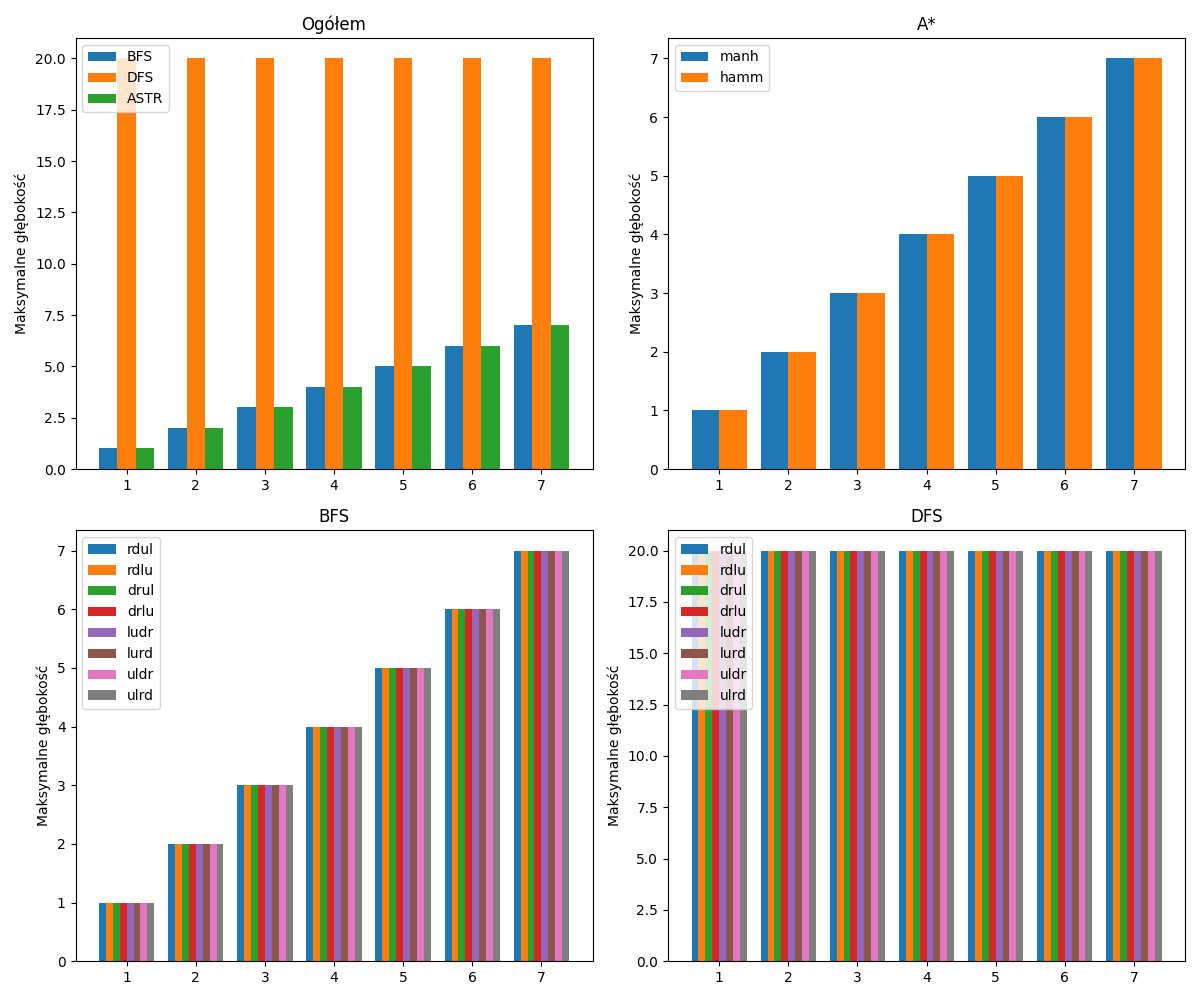
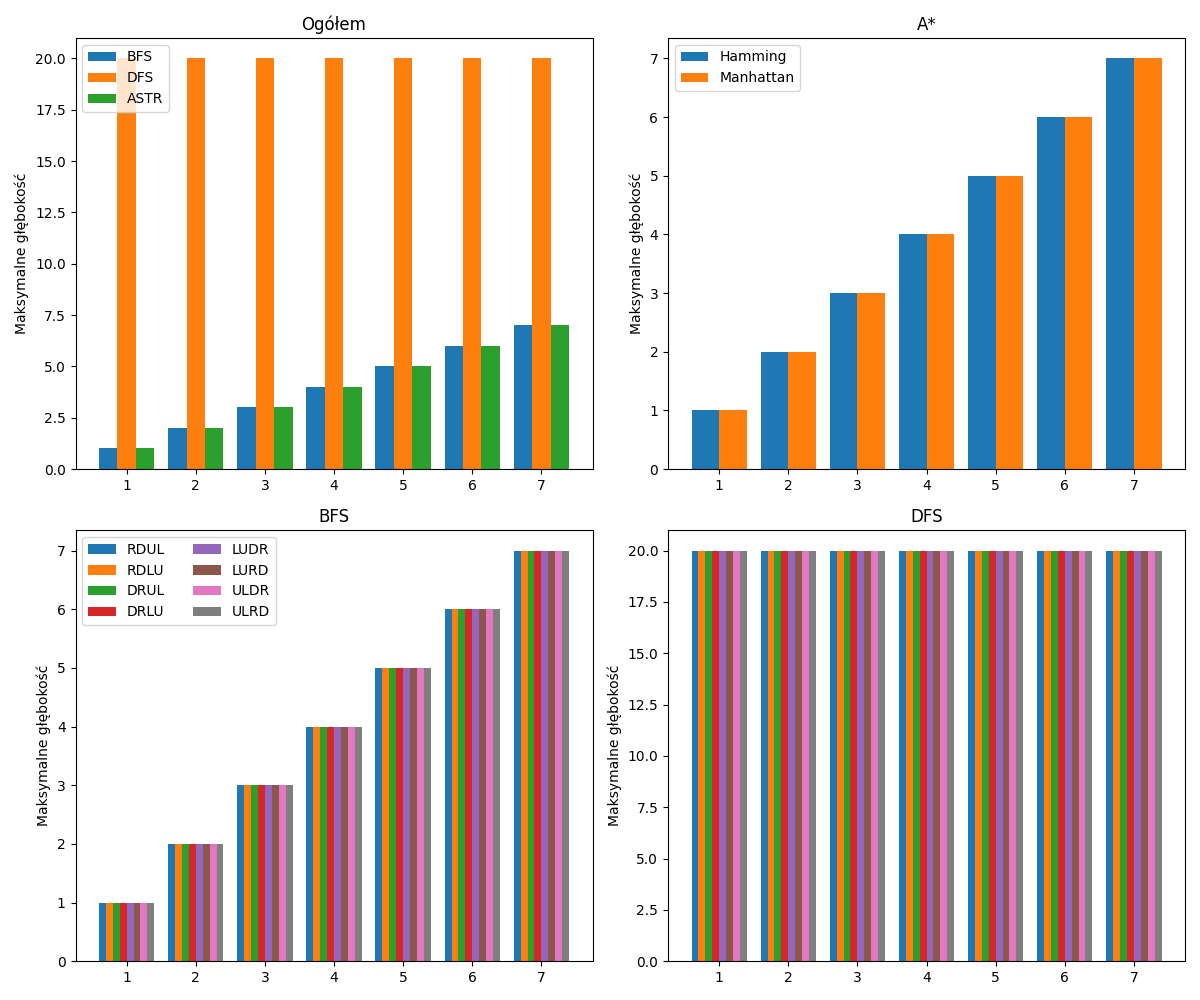
better graphs

Changed region(s): [[0.0617, 0.527, 0.2467, 0.713], [0.555, 0.527, 0.6475, 0.713], [0.5858, 0.031, 0.6783, 0.093]]

diff --git a/Fifteen Puzzle/solve.py b/Fifteen Puzzle/solve.py
@@ -59,7 +59,7 @@ def split_astr(table):
         elif strategy == "hamm":
             hamm.append(temp)
 
-    return [manh, hamm]
+    return [hamm, manh]
 
 
 def general_trim(table):
@@ -116,7 +116,7 @@ def transpose(table):
     return tranposed
 
 
-def bar_plot(ax, data, key, feature, title, ylabel, total_width=0.8, single_width=1, log_scale=False):
+def bar_plot(ax, data, key, feature, title, ylabel, total_width=0.8, single_width=1, legend=True, log_scale=False):
     colors = plt.rcParams['axes.prop_cycle'].by_key()['color']
     n_bars = len(data)
     bar_width = total_width / n_bars
@@ -124,7 +124,11 @@ def bar_plot(ax, data, key, feature, title, ylabel, total_width=0.8, single_widt
     for i in range(n_bars):
         x_offset = (i - n_bars / 2) * bar_width + bar_width / 2
         ax.bar(x + x_offset, np.array(data[i][feature]), width=bar_width * single_width, color=colors[i % len(colors)])
-    ax.legend(key, loc='upper left')
+    if legend:
+        if len(key) > 4:
+            ax.legend(key, loc='upper left', ncol=2)
+        else:
+            ax.legend(key, loc='upper left')
     ax.set_title(title)
     ax.set_ylabel(ylabel)
     if log_scale:
@@ -181,15 +185,16 @@ astr_t = transpose(astr_strategy_avg)
 
 general_avg = transpose([bfs_general_avg, dfs_general_avg, astr_general_avg])
 
-keys = ['rdul', 'rdlu', 'drul', 'drlu', 'ludr', 'lurd', 'uldr', 'ulrd']
+keys = ['RDUL', 'RDLU', 'DRUL', 'DRLU', 'LUDR', 'LURD', 'ULDR', 'ULRD']
+metric = ['Hamming', 'Manhattan']
 LABELS = ['Długość rozwiązania', 'Stany odwiedzone', 'Stany przetworzone', 'Maksymalne głębokość', 'Czas [ms]']
 params = [LENGTH, VISITED_STATES, PROCESSED_STATES, MAX_DEPTH, TIME]
 
 axes = plt.subplots(nrows=2, ncols=2, figsize=(12, 10))[1]
-bar_plot(axes[0][0], general_avg, ['BFS', 'DFS', 'ASTR'], LENGTH, "Ogółem", LABELS[0], total_width=.8, log_scale=True)
-bar_plot(axes[0][1], astr_t, ['manh', 'hamm'], LENGTH, "A*", LABELS[0], total_width=.8)
+bar_plot(axes[0][0], general_avg, ['BFS', 'DFS', 'ASTR'], LENGTH, "Ogółem", LABELS[0], total_width=.8)
+bar_plot(axes[0][1], astr_t, metric, LENGTH, "A*", LABELS[0], total_width=.8)
 bar_plot(axes[1][0], bfs_t, keys, LENGTH, "BFS", LABELS[0], total_width=.8)
-bar_plot(axes[1][1], dfs_t, keys, LENGTH, "DFS", LABELS[0], total_width=.8, log_scale=True)
+bar_plot(axes[1][1], dfs_t, keys, LENGTH, "DFS", LABELS[0], total_width=.8, log_scale=True, legend=False)
 
 plt.tight_layout()
 plt.savefig('charts/Length.png')
@@ -197,9 +202,9 @@ plt.savefig('charts/Length.png')
 axes = plt.subplots(nrows=2, ncols=2, figsize=(12, 10))[1]
 bar_plot(axes[0][0], general_avg, ['BFS', 'DFS', 'ASTR'], VISITED_STATES, "Ogółem", LABELS[1], total_width=.8,
          log_scale=True)
-bar_plot(axes[0][1], astr_t, ['manh', 'hamm'], VISITED_STATES, "A*", LABELS[1], total_width=.8)
+bar_plot(axes[0][1], astr_t, metric, VISITED_STATES, "A*", LABELS[1], total_width=.8)
 bar_plot(axes[1][0], bfs_t, keys, VISITED_STATES, "BFS", LABELS[1], total_width=.8)
-bar_plot(axes[1][1], dfs_t, keys, VISITED_STATES, "DFS", LABELS[1], total_width=.8, log_scale=True)
+bar_plot(axes[1][1], dfs_t, keys, VISITED_STATES, "DFS", LABELS[1], total_width=.8, log_scale=True, legend=False)
 
 plt.tight_layout()
 plt.savefig('charts/Visited.png')
@@ -207,27 +212,27 @@ plt.savefig('charts/Visited.png')
 axes = plt.subplots(nrows=2, ncols=2, figsize=(12, 10))[1]
 bar_plot(axes[0][0], general_avg, ['BFS', 'DFS', 'ASTR'], PROCESSED_STATES, "Ogółem", LABELS[2], total_width=.8,
          log_scale=True)
-bar_plot(axes[0][1], astr_t, ['manh', 'hamm'], PROCESSED_STATES, "A*", LABELS[2], total_width=.8)
+bar_plot(axes[0][1], astr_t, metric, PROCESSED_STATES, "A*", LABELS[2], total_width=.8)
 bar_plot(axes[1][0], bfs_t, keys, PROCESSED_STATES, "BFS", LABELS[2], total_width=.8)
-bar_plot(axes[1][1], dfs_t, keys, PROCESSED_STATES, "DFS", LABELS[2], total_width=.8, log_scale=True)
+bar_plot(axes[1][1], dfs_t, keys, PROCESSED_STATES, "DFS", LABELS[2], total_width=.8, log_scale=True, legend=False)
 
 plt.tight_layout()
 plt.savefig('charts/Processed.png')
 
 axes = plt.subplots(nrows=2, ncols=2, figsize=(12, 10))[1]
 bar_plot(axes[0][0], general_avg, ['BFS', 'DFS', 'ASTR'], MAX_DEPTH, "Ogółem", LABELS[3], total_width=.8)
-bar_plot(axes[0][1], astr_t, ['manh', 'hamm'], MAX_DEPTH, "A*", LABELS[3], total_width=.8)
+bar_plot(axes[0][1], astr_t, metric, MAX_DEPTH, "A*", LABELS[3], total_width=.8)
 bar_plot(axes[1][0], bfs_t, keys, MAX_DEPTH, "BFS", LABELS[3], total_width=.8)
-bar_plot(axes[1][1], dfs_t, keys, MAX_DEPTH, "DFS", LABELS[3], total_width=.8)
+bar_plot(axes[1][1], dfs_t, keys, MAX_DEPTH, "DFS", LABELS[3], total_width=.8, legend=False)
 
 plt.tight_layout()
 plt.savefig('charts/Depth.png')
 
 axes = plt.subplots(nrows=2, ncols=2, figsize=(12, 10))[1]
 bar_plot(axes[0][0], general_avg, ['BFS', 'DFS', 'ASTR'], TIME, "Ogółem", LABELS[4], total_width=.8, log_scale=True)
-bar_plot(axes[0][1], astr_t, ['manh', 'hamm'], TIME, "A*", LABELS[4], total_width=.8)
+bar_plot(axes[0][1], astr_t, metric, TIME, "A*", LABELS[4], total_width=.8)
 bar_plot(axes[1][0], bfs_t, keys, TIME, "BFS", LABELS[4], total_width=.8)
-bar_plot(axes[1][1], dfs_t, keys, TIME, "DFS", LABELS[4], total_width=.8, log_scale=True)
+bar_plot(axes[1][1], dfs_t, keys, TIME, "DFS", LABELS[4], total_width=.8, log_scale=True, legend=False)
 
 plt.tight_layout()
 plt.savefig('charts/Time.png')
